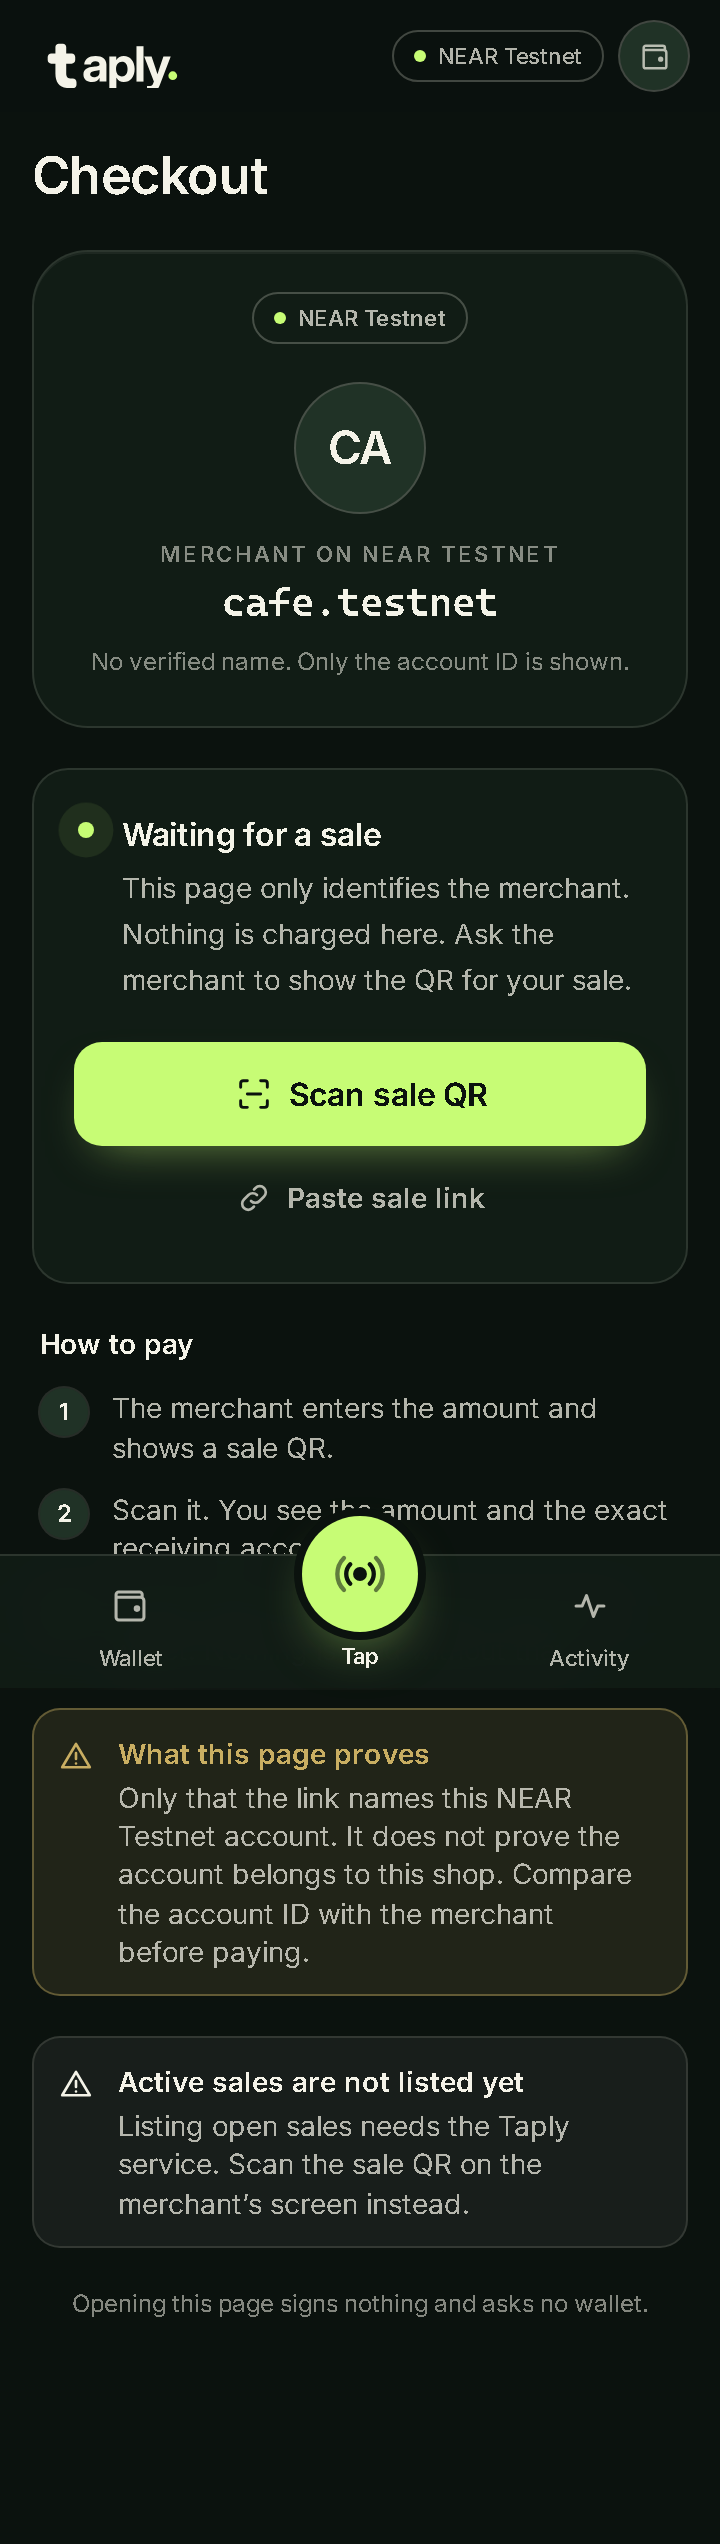
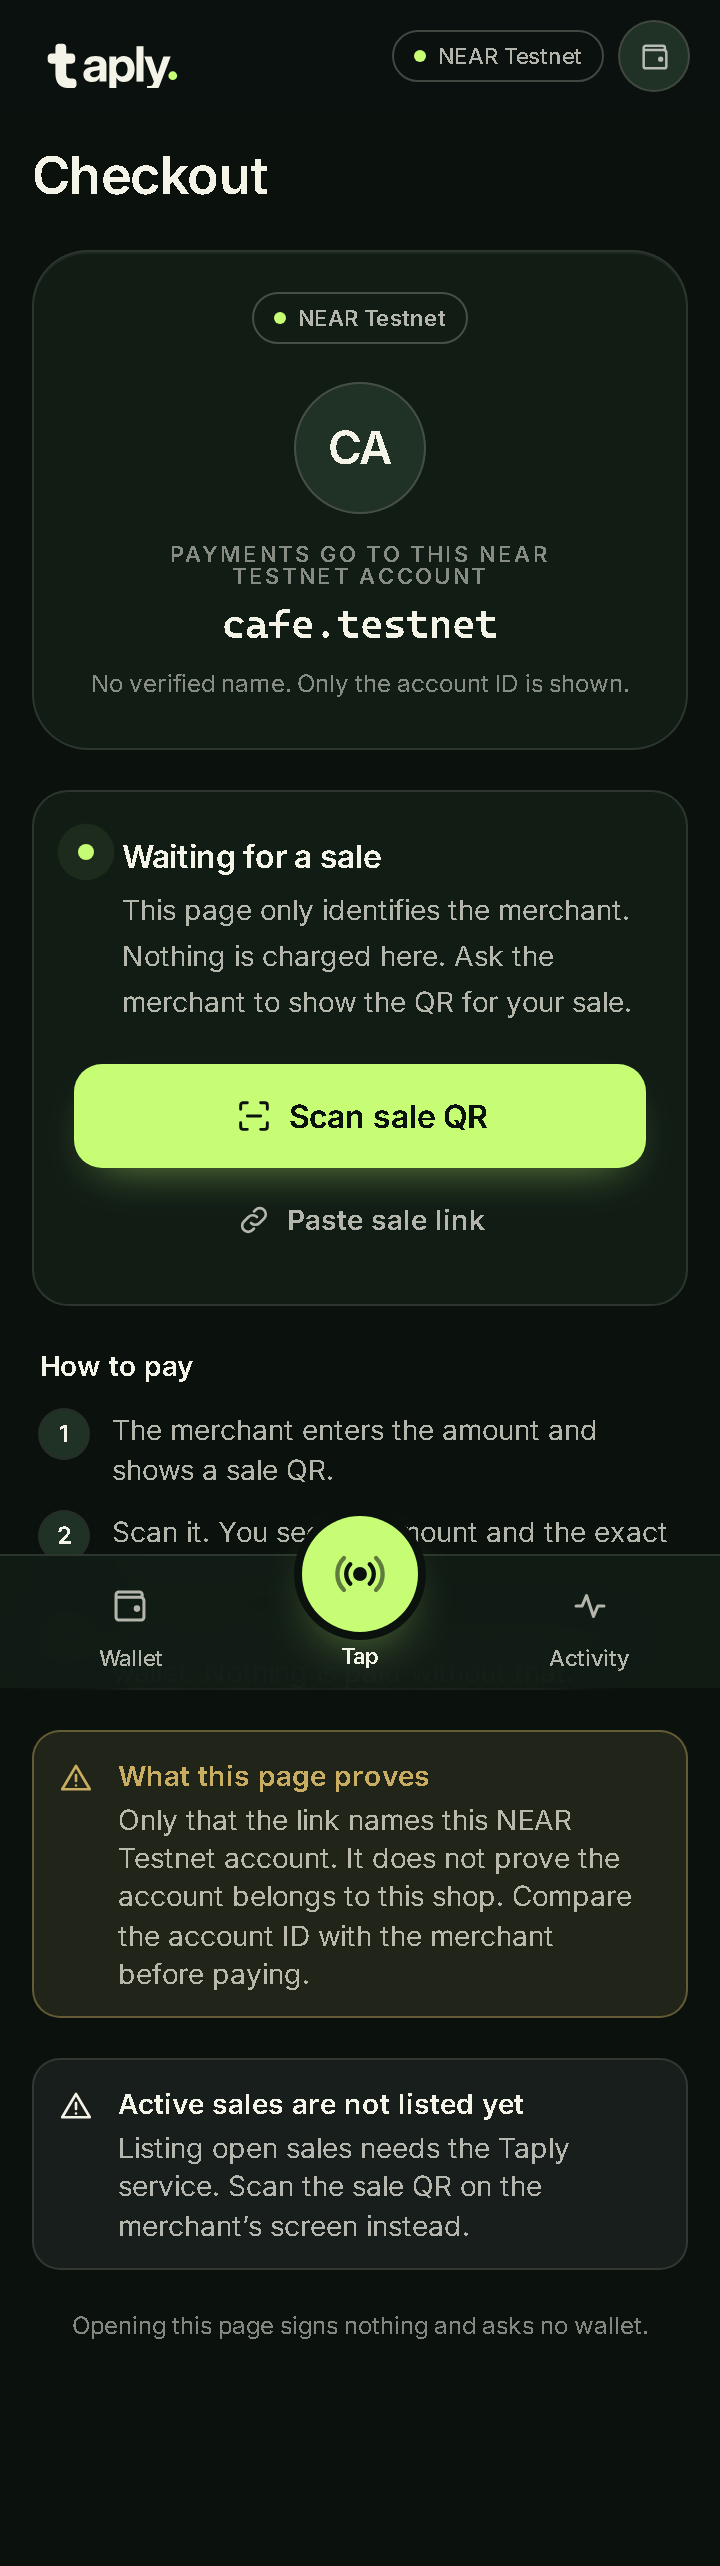
docs(web): Phase 7D QA report and refreshed commerce evidence
PHASE_7D_QA.md: bugs found/fixed, second-sale gate analysis, 46-case QR
security results, mobile QA results, honesty boundaries, remaining
issues and the physical iPhone POS test plan. PHASE_7_COMMERCE_UI.md
gains a 7D summary. Phase 7 screenshots and smoke result re-captured
with the 7D copy; 7D QA screenshots and result refreshed.

diff --git a/apps/web/docs/PHASE_7D_QA.md b/apps/web/docs/PHASE_7D_QA.md
@@ -1,0 +1,135 @@
+# Phase 7D: merchant commerce reliability and UX hardening
+
+Branch `feature/frontend`, 2026-11-01/02. Base `062cb46`. `apps/web` only. No
+contract, `packages/*`, root manifest, lockfile, env file or Codex worktree
+change. No dependency added. No transaction sent, nothing deployed, pushed or
+merged. No flag turned on. The journal, Web Lock, reconcile rules, wallet
+checks and Verified Paid verifier are unchanged.
+
+## Bugs found and fixed
+
+| # | Severity | Finding (confirmed) | Fix | Commit |
+| --- | --- | --- | --- | --- |
+| 1 | Medium | **Second sale stuck until reload.** The creation gate reconciled unexplained `create_request` entries once per mount. If the previous sale was not yet visible at a final block at that moment, "still unconfirmed" stayed until a reload, though the chain confirmed it seconds later. | Bounded re-check (3 s, 6 s, 12 s, 24 s, then every 30 s) while any creation is still `pending`. It stops once the chain explains it, or at the existing 2-minute `may_reattempt` hold. | `26eb6ef` |
+| 2 | Medium | **Another account's draft blocked this account.** The pending list was not cleared when the connected account changed (the effect returned early when the new account had nothing unresolved). | Pending drafts are filtered at render to the connected account and pinned contract; the effect always settles its state. | `26eb6ef` |
+| 3 | Medium | **Stale review after an account switch.** The review kept showing the old account as "You (the connected account)". Signing was already refused by `prepareCreateRequest` (signer ≠ creator), but the error read "quote failed". | A review prepared for another account is never shown or signed. The screen returns to the form with "Connected account changed … Nothing was signed". | `26eb6ef` |
+| 4 | Medium (UX) | **No way back to the sale QR after a wallet redirect.** Returning to `/merchant/register` (e.g. after a mobile redirect wallet) showed an empty form. | "Sale ready for payment" card with **Show sale QR**, for the newest sale (≤30 min) that a finalized read shows `OPEN` and unexpired. Declined, discarded, missing, paid or expired sales never show it. | `26eb6ef` |
+| 5 | Medium (UX) | **Hidden digits while typing an amount.** Past ~8 characters the amount input scrolled sideways (at 360 px `123456789.1234…` showed only `…39123456`). It is shared with personal requests. | Font and `NEAR` suffix step down by length. A full 24-decimal value is fully visible at 360/390/430 px (`scrollWidth == clientWidth` measured). | `84168ac` |
+| 6 | Low (honesty) | **"Paid to"** appeared before any payment (POS chip, Handshake terms, demo). The checkout eyebrow **"Merchant on NEAR Testnet"** asserted merchant status for any account in the URL. | "Pay to"; "Payments go to this NEAR Testnet account" (TR likewise). A dictionary test guards both. | `8c7a311` |
+
+No critical issue was found. No false paid or verified label, no account-binding
+bypass and no scanner path that signs, creates or pays was found.
+
+## Stage 2: why a second sale waits
+
+- **Where the restriction lives:** a UI gate in `CreateRequest` (shared by
+  `/request/new` and the POS). It is not `journal.begin` (which blocks only the
+  same request/method/signer), the wallet lifecycle or request status.
+- **What it blocks:** while any `create_request` by the connected account on the
+  pinned contract is unexplained (`AWAITING_SIGNATURE`, `OUTCOME_UNKNOWN`, or
+  `SUBMITTED` but not yet seen at a final block), a new creation is disabled.
+- **Why it stays account-wide:** the screen cannot tell "a new sale" from "the
+  same sale again because the wallet outcome was unknown". The frozen rule is
+  never to allocate another intent on an unknown submission. A per-sale gate
+  would let exactly that happen. **Kept unchanged.**
+- **How long it lasts in practice:** with a returned hash, until the request is
+  visible at a final block (normally a few seconds). The screen now re-checks by
+  itself. Without a hash, or if the chain never shows it, the existing 2-minute
+  hold applies. After that the merchant may explicitly re-sign the **same** terms
+  (same nonce and ID; it cannot be created twice) or discard it.
+- **UX now:** the notice names the pending sale (exact amount and reference), says
+  a new sale starts as soon as it is confirmed, says Taply re-checks
+  automatically, and links to its status. After the hold it lists the three
+  options. Nothing is stored beyond the existing journal, so the state survives
+  reloads. There is no spinner: it is a text notice with a working link.
+
+Regression tests (`merchant.test.tsx`, `creation-gate.test.ts`):
+
+- The block shows the pending sale and its status link.
+- It lifts with no reload once the fake chain confirms the sale, and offers Show sale QR. Still exactly one signature.
+- Another account on the same device is not blocked.
+- An account switch during review is never signed.
+- Gate selection, the recent window and the bounded backoff are covered.
+
+## Stage 3: QR security results
+
+`lib/payments/__tests__/qr-security.test.ts`, 46 cases, all pass with **no parser change**.
+
+| Input class | Result |
+| --- | --- |
+| Valid `/pay/{id}`, valid `/checkout/{account}` | Opens only this app's own `/pay/<id>` or read-only `/checkout/<account>` |
+| Query/fragment: `amount`, `recipient`, `to`, `next=https://…`, `transactionHashes`, `errorCode` | Dropped; only the ID or account is kept |
+| Equivalent spellings (uppercase scheme/host, `:443`, `/x/../`) | Same origin, same result |
+| `/checkout/%2e%2e/pay/<id>` | Normalized by the URL parser to this app's `/pay/<id>`: the same as scanning that request's QR (chain-read review, wallet approval required). Never a merchant result. |
+| Spoofed suffix host, Cyrillic homograph (punycode), trailing-dot host, `http://` downgrade, other port | `other_site` with the host named; never followed |
+| Origin hidden in another host's path, `user@`/credentials | Rejected |
+| `.near` / uppercase / percent-encoded / NUL / >64-char / leading-hyphen account, extra or empty segments, `//checkout` | Rejected (`invalid` or `invalid_merchant` with a message) |
+| `javascript:`, `data:`, `intent://`, `taply://`, `near:`, `ftp:`, JSON, bare account, bidi/zero-width/newline, 5 000 chars | Rejected |
+| Expired request | Opens `/pay/<id>`, which shows "This request expired" and no pay control (existing `payment-screen.test.tsx`, chain time) |
+| Merchant QR "with an amount" | The amount is ignored; checkout shows no amount and asks no wallet (`checkout.test.tsx`: no `quote/create/pay` RPC, zero signatures) |
+
+The Phase 6B camera lifecycle is unchanged; its 30 scanner tests pass. In the browser,
+the scanner opened from checkout had focus inside the dialog and a live camera
+track; Escape closed it and returned focus to "Scan sale QR".
+
+## Stage 4: mobile QA
+
+`scripts/phase7d-mobile-qa.mjs` (production Webpack build, Chromium 1248). It uses
+an injected read-only account whose signing always throws, and allows only the
+app and RPC hosts. Result: [`phase7d/qa.json`](phase7d/qa.json); screenshots:
+`docs/screenshots/phase7d-qa/`.
+
+| Check | Result |
+| --- | --- |
+| Wallet-disconnected `/merchant`, `/merchant/register`, `/merchant/setup` at 360/390/430/1280 | Connect prompt, 0 overflow |
+| 64-char implicit account on hub, Store QR, POS, checkout (360, 430) | Full ID wraps on hub/QR/checkout and review; the POS form chip truncates with the full ID in `title` (non-decision chrome) |
+| 24-decimal amount: form and review | Fully visible after fix 5; review wraps |
+| Long Turkish reference on review | Wraps |
+| Turkish at 360 px on merchant, POS, Store QR, checkout, demo | 0 overflow |
+| Unnamed visible controls / targets under 44 px (main, header, nav) | 0 / 0 |
+| Reduced motion | Checkout pulse `animation-name: none` (Phase 7 smoke) |
+| RPC methods | `status`, `block`, `view_account`, `get_config`, `quote_create_request` only; no broadcast; no page errors |
+
+Not measurable headlessly:
+
+- The real iOS keyboard. The amount field is the first control and the shell pads the bottom by 7 rem plus the safe area.
+- Notch and home-indicator safe areas (the shell uses `env(safe-area-inset-*)`; unchanged).
+- VoiceOver/TalkBack reading.
+
+These are on the device checklist.
+
+## Stage 5: honesty boundaries (verified in source, tests and screenshots)
+
+| Surface | What it is | What it never claims |
+| --- | --- | --- |
+| POS (`/merchant/register`) | A real signed Instant request through the existing flow | A verified merchant checkout. "Not a verified merchant checkout yet" is shown at review. |
+| Store QR | Discovery link only, labelled on the card | That it is payable or contains an amount |
+| Checkout | The exact account; "No verified name" | Merchant status, business identity or KYC |
+| Handshake tile, `/s/[id]` | Inert / "not available yet" | Pairing, a code or terms |
+| `/demo/handshake` | DEMO-stamped synthetic walkthrough through the real presenter | A wallet prompt, a network call or any paid state |
+| Receipts | Verified Paid only from the existing independent verifier with a funding hash | Unchanged in this phase |
+
+## Remaining issues
+
+1. **Merchant-side Verified Paid needs the funding hash.** The merchant's phone
+   sees "Paid per contract" from the contract. Verified Paid on that device needs
+   the customer's verification link (`?ftx=`) or a future indexer/backend.
+   This was already documented in Phase 6A and needs a backend.
+2. `/pay/<id>` for a not-yet-visible creation offers "Resume this request" →
+   `/request/new`, not the POS. It works (same gate, same draft) but leaves the
+   merchant context. This is low impact and was left as is.
+3. Root `pnpm check` on this branch still includes the near-client fixture
+   failure until Codex's `6a34a94` is merged. Not edited here.
+4. The POS form's "Pay to" chip truncates a 64-char implicit account. The full ID
+   is on the hub, the review and the receipt.
+5. No physical-device run in this phase.
+
+## Physical iPhone POS test plan (ready)
+
+1. **Merchant phone:** Merchant → New sale, 0.01 NEAR, reference. Review shows exact amount, "Pay to" account and storage bond. Approve in the wallet.
+2. If the wallet redirects back to the POS: expect "Sale ready for payment" → Show sale QR. Otherwise it opens `/pay/<id>` directly.
+3. Immediately start a second sale: expect "Waiting for the previous sale", clearing by itself within seconds.
+4. **Customer phone:** scan the Store QR → checkout (no amount, no wallet) → Scan sale QR → `/pay/<id>` → approve → Verified Paid on the customer's phone.
+5. **Merchant phone:** `/pay/<id>` shows "Paid per contract". Open the customer's verification link for Verified Paid.
+6. Decline in the wallet once: nothing is created; the next sale is not blocked.
+7. Test with VoiceOver, large text and both orientations, and confirm the camera indicator turns off after each scan.

diff --git a/apps/web/docs/PHASE_7_COMMERCE_UI.md b/apps/web/docs/PHASE_7_COMMERCE_UI.md
@@ -1,5 +1,14 @@
 # Phase 7: merchant POS, customer checkout and Handshake UX
 
+> **Phase 7D update (2026-11-02):** see [PHASE_7D_QA.md](PHASE_7D_QA.md). Fixes:
+> - The second-sale gate now re-checks by itself, is scoped to the connected account and explains what is pending.
+> - An account switch during review is never signed.
+> - "Sale ready for payment" leads back to the QR after a wallet redirect.
+> - Long amounts stay fully visible while typing.
+> - Labels changed to "Pay to" and "Payments go to this NEAR Testnet account".
+>
+> Web tests 616/616; Webpack build OK. Screenshots below were refreshed with the 7D copy.
+
 Branch `feature/frontend`, 2026-11-01. `apps/web` only. No contract, `packages/*`,
 root manifest or lockfile change. No dependency added. No transaction sent, nothing
 deployed, nothing pushed or merged. `NEXT_PUBLIC_TAPLY_FLAG_HANDSHAKE`,
@@ -11,7 +20,7 @@ Protected Pay and native Taply Wallet signing stay off.
 | --- | --- | --- |
 | Merchant hub | `/merchant` (account menu → Merchant) | Shows the exact connected Testnet account, New sale, Store QR, and a local list of requests started on this device. The list shows **no status**; status is read from the contract on `/pay/<id>`. |
 | POS sale request | `/merchant/register` | The **same `CreateRequest` flow** as personal requests, in a `sale` variant: visible sale reference (memo), Amount → Review → QR progress, and an "unverified merchant" notice at review. Same wallet signer, journal, Web Lock, nonce, quote, freshness and signing-flag gates. Terms keep `merchantAccountId: null` and `sessionBinding: null`, which the deployed contract requires. After signing it opens `/pay/<id>`, the existing QR ticket, live chain status and Verified Paid receipt. |
-| Unique sale IDs | — | Each sale uses a fresh 32-byte CSPRNG nonce, so it gets a new deterministic request ID. An unconfirmed earlier sale blocks the next one on the same device until the chain explains it (existing guard, now tested for the POS). |
+| Unique sale IDs | — | Each sale uses a fresh 32-byte CSPRNG nonce, so it gets a new deterministic request ID. An unexplained earlier sale blocks the next one on the same device until the chain explains it (usually seconds). Since 7D the screen re-checks automatically, names the pending sale and links to its status (see PHASE_7D_QA.md, Stage 2). |
 | Store (discovery) QR | `/merchant/setup` | Permanent `https://<share origin>/checkout/<account>` QR on a cream card labelled "Discovery only, not a payment". It is drawn only for a public HTTPS share origin. Copy, native share and preview are available. |
 | Customer checkout | `/checkout/[accountId]` | Discovery state only: the exact Testnet account, no display name, no amount, no wallet prompt. "Scan sale QR" / "Paste sale link", how-to-pay steps, and what the page does and does not prove. Invalid or non-Testnet accounts are refused. The merchant viewing their own page gets a New sale shortcut. |
 | Merchant QR scanning | Tap → Pay, `/scan`, checkout | `parseScanInput` accepts approved-origin `/checkout/<account>` links as well as `/pay/<id>`. Query and fragment are dropped (no recipient or amount substitution). Other hosts are named, not followed. Invalid or non-Testnet accounts get a specific message. Bare account IDs are not accepted. A merchant code only navigates; nothing is signed or created. The Phase 6B camera lifecycle is unchanged. |
@@ -54,7 +63,7 @@ NEP-413 profile, no merchant binding and no session binding.
 | --- | --- |
 | `pnpm --filter @taply/web run check` | Exit 0. Brand assets byte-identical, typecheck, lint, **563/563 tests in 45 files** (+48 since Phase 6B's 515). |
 | `pnpm --filter @taply/web exec next build --webpack` | Exit 0, 21/21 pages. |
-| `pnpm check` (root) | **Exit 1, not caused by this phase.** `@taply/shared` 92/92 passes. `@taply/near-client` fails 3/158 in `test/wallet-payment-signer.test.mjs` with `INVALID_ARGUMENT`. Its fixture `request-open.json` hard-codes `createdAtNs` (2026-10-31 21:21 UTC) while the test sets expiry from `Date.now()`, so more than 24 h later the lifetime exceeds the maximum and the guard correctly refuses. `packages/**` is identical to the Phase 6B base. **Codex must fix the fixture** (derive `createdAtNs` from the fixture clock). The web suite does not run because the root script stops at the first failure; it passes on its own (above). |
+| `pnpm check` (root) | **Exit 1 at the time, not caused by this phase** (Codex fixed it in `6a34a94` on its branch; not merged here). `@taply/shared` 92/92 passes. `@taply/near-client` fails 3/158 in `test/wallet-payment-signer.test.mjs` with `INVALID_ARGUMENT`. Its fixture `request-open.json` hard-codes `createdAtNs` (2026-10-31 21:21 UTC) while the test sets expiry from `Date.now()`, so more than 24 h later the lifetime exceeds the maximum and the guard correctly refuses. `packages/**` is identical to the Phase 6B base. **Codex must fix the fixture** (derive `createdAtNs` from the fixture clock). The web suite does not run because the root script stops at the first failure; it passes on its own (above). |
 | Flake note | One run of `context-sync.test.tsx` ("re-verifies an aged contract check") timed out under full-suite load. It passed 5/5 in isolation and in every other full run. Unchanged code; worth a longer `waitFor` later. |
 
 New tests:
@@ -96,7 +105,7 @@ Not done: no physical device was used in this phase.
 1. POS end-to-end with a real wallet: create a 0.01 NEAR sale, wallet redirect return, `/pay/<id>` QR, customer pays from a second phone, Verified Paid on both.
 2. Store QR printed or on screen → scan from the customer phone → checkout → scan the sale QR → pay.
 3. Scanner: merchant QR on iOS Safari (bundled decoder) and Android Chrome (BarcodeDetector); non-Testnet / foreign-host merchant QR messages; camera indicator off after merchant navigation.
-4. Two sales in a row on one device: the second is blocked until the first is confirmed. Confirm the blocking notice is clear at the counter.
+4. Two sales in a row on one device: "Waiting for the previous sale" should clear by itself within seconds.
 5. Safe-area insets on notched phones; VoiceOver/TalkBack reading of the comparison code; large text.
 6. Android has not been tested in any phase.
 
